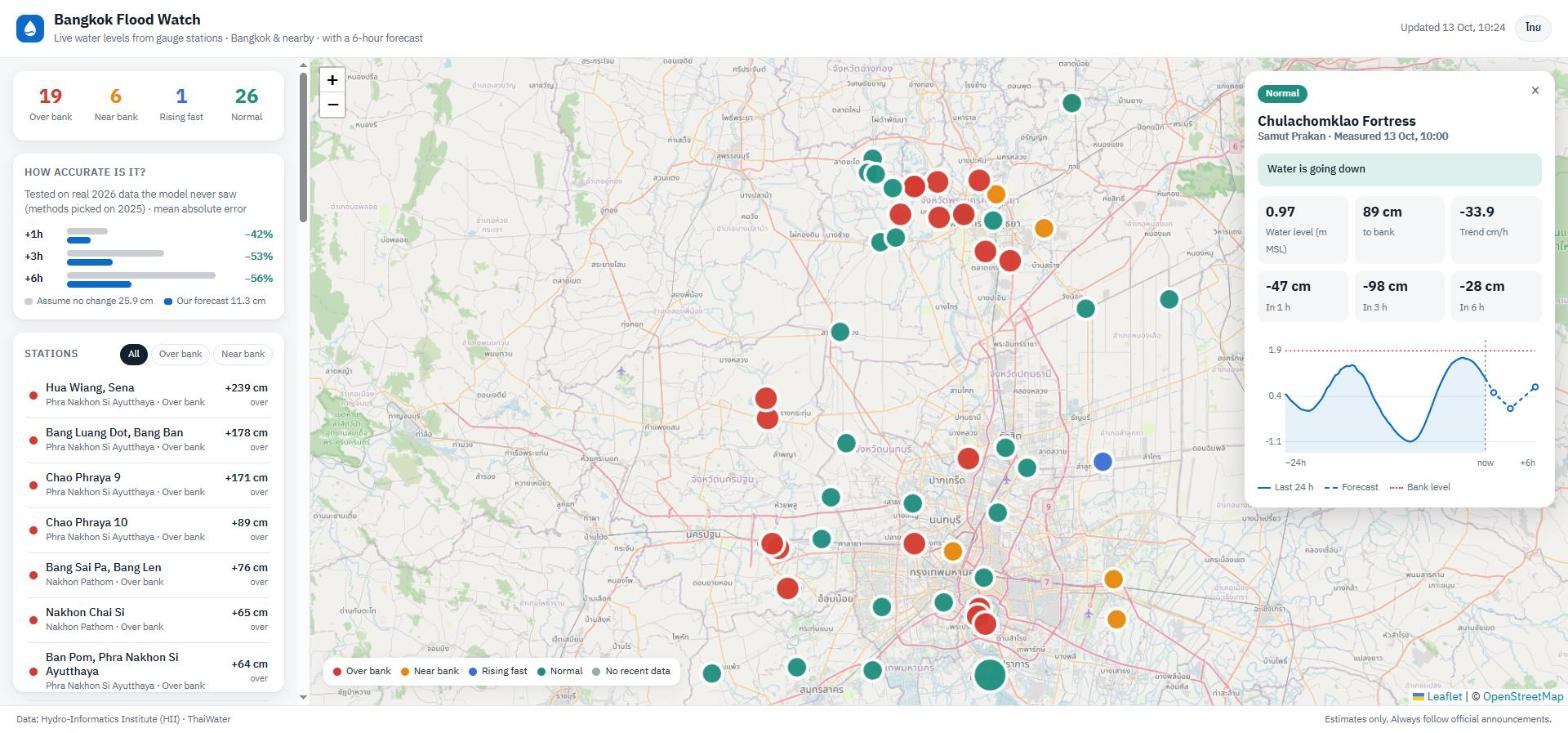
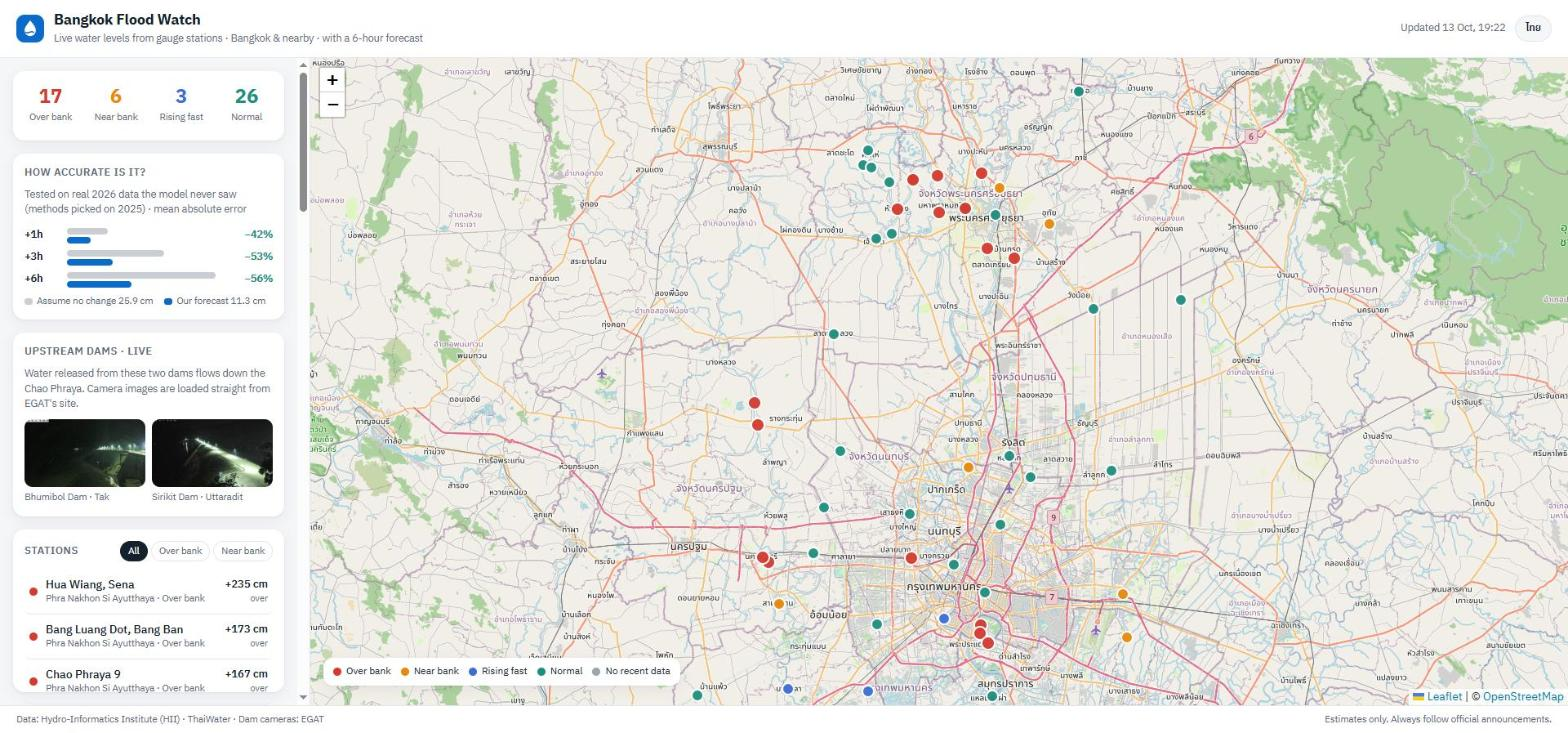
Show live camera pictures of the two upstream dams
Adds a small panel with EGAT's public camera stills of the Bhumibol and
Sirikit dams, loaded straight from EGAT's site and refreshed every five
minutes. A camera that is down is removed instead of showing a broken image.

A camera beside every gauge was the goal, but of the 106 cameras ThaiWater
lists only 8 dam cameras still answer, and Bangkok's traffic cameras can only
be viewed on the city's own site. The README says so.

Also: ?lang=en|th in the URL, and the empty detail box no longer shows
before a station is picked.

diff --git a/web/app.js b/web/app.js
@@ -18,9 +18,12 @@ const TEXT = {
     willOverflow: h => `คาดว่าน้ำจะถึงตลิ่งภายใน ${h} ชม. ถ้าแนวโน้มยังเป็นแบบนี้`,
     isOver: cm => `ตอนนี้น้ำสูงกว่าตลิ่ง ${cm} ซม.`,
     falling: "น้ำกำลังลด",
-    source: "ข้อมูล: สถาบันสารสนเทศทรัพยากรน้ำ (สสน.) · ThaiWater",
+    source: "ข้อมูล: สถาบันสารสนเทศทรัพยากรน้ำ (สสน.) · ThaiWater · ภาพกล้องเขื่อน: กฟผ.",
     warning: "เป็นการประมาณ ห้ามใช้แทนประกาศของทางการ",
     reading: "วัดเมื่อ",
+    camTitle: "เขื่อนต้นน้ำ · ภาพสด",
+    camNote: "น้ำที่ปล่อยจากสองเขื่อนนี้ไหลลงเจ้าพระยา · ภาพจากกล้องของ กฟผ. โหลดตรงจากเว็บ กฟผ.",
+    dams: { BB: "เขื่อนภูมิพล · ตาก", SK: "เขื่อนสิริกิติ์ · อุตรดิตถ์" },
   },
   en: {
     title: "Bangkok Flood Watch",
@@ -41,16 +44,25 @@ const TEXT = {
     willOverflow: h => `Likely to reach the bank within ${h} h if the trend holds`,
     isOver: cm => `Water is ${cm} cm above the bank right now`,
     falling: "Water is going down",
-    source: "Data: Hydro-Informatics Institute (HII) · ThaiWater",
+    source: "Data: Hydro-Informatics Institute (HII) · ThaiWater · Dam cameras: EGAT",
     warning: "Estimates only. Always follow official announcements.",
     reading: "Measured",
+    camTitle: "Upstream dams · live",
+    camNote: "Water released from these two dams flows down the Chao Phraya. Camera images are loaded straight from EGAT's site.",
+    dams: { BB: "Bhumibol Dam · Tak", SK: "Sirikit Dam · Uttaradit" },
   },
 };
+// Still images EGAT publishes for its dam cameras; refreshed on their side every few minutes.
+const CAM_URL = code => `https://egatwater.egat.co.th/assets/CCTV/images/${code}/1.jpg`;
+const CAM_SITE = "https://egatwater.egat.co.th/";
+const CAM_REFRESH_MS = 5 * 60e3;
 const COLORS = { over: "--over", near: "--near", rising: "--rising", normal: "--normal", stale: "--stale" };
 const ORDER = { over: 0, near: 1, rising: 2, normal: 3, stale: 4 };
 
 let lang = "th";
 try { lang = localStorage.getItem("floodwatch-lang") || "th"; } catch (e) {}
+const urlLang = new URLSearchParams(location.search).get("lang");
+if (urlLang === "th" || urlLang === "en") lang = urlLang;
 let data = null, accuracy = null, filter = "all", selected = null, map, markers = {};
 
 const $ = id => document.getElementById(id);
@@ -103,6 +115,17 @@ function renderAccuracy() {
       <span><i style="background:${css("--stale")};opacity:.55"></i>${t("accBase")} ${accuracy.rows.at(-1).baseline_cm} ${t("cm")}</span>
       <span><i style="background:${css("--accent")}"></i>${t("accOurs")} ${accuracy.rows.at(-1).ours_cm} ${t("cm")}</span>
     </div>`;
+}
+
+function renderCams() {
+  const stamp = Math.floor(Date.now() / CAM_REFRESH_MS);
+  $("cams").innerHTML = Object.entries(t("dams")).map(([code, label]) => `
+    <a class="cam" href="${CAM_SITE}" target="_blank" rel="noopener">
+      <img src="${CAM_URL(code)}?t=${stamp}" alt="${label}">
+      <span>${label}</span>
+    </a>`).join("");
+  // a camera that is down should disappear, not leave a broken picture
+  $("cams").querySelectorAll("img").forEach(img => (img.onerror = () => img.closest(".cam").remove()));
 }
 
 function renderFilters() {
@@ -219,7 +242,7 @@ function setFilter(f) {
 }
 
 function renderAll() {
-  applyText(); renderStats(); renderAccuracy(); renderFilters(); renderList(); renderMarkers(); renderLegend(); renderDetail();
+  applyText(); renderStats(); renderAccuracy(); renderCams(); renderFilters(); renderList(); renderMarkers(); renderLegend(); renderDetail();
 }
 
 $("lang").onclick = () => {
@@ -243,5 +266,6 @@ async function init() {
   if (params.get("station")) selected = +params.get("station");
   renderAll();
   map.fitBounds(L.latLngBounds(data.stations.map(s => [s.lat, s.lon])), { padding: [30, 30] });
+  setInterval(renderCams, CAM_REFRESH_MS);
 }
 init();

diff --git a/web/style.css b/web/style.css
@@ -73,6 +73,13 @@ h2 { font-size: 13px; font-weight: 600; text-transform: uppercase; letter-spacin
 .acc-key { display: flex; gap: 14px; font-size: 11.5px; color: var(--muted); }
 .acc-key i { display: inline-block; width: 10px; height: 8px; border-radius: 3px; margin-right: 5px; vertical-align: middle; }
 
+.cams { display: flex; flex-direction: column; gap: 8px; }
+.cam-grid { display: grid; grid-template-columns: 1fr 1fr; gap: 8px; }
+.cam { display: block; color: inherit; text-decoration: none; font-size: 11.5px; }
+.cam img { display: block; width: 100%; aspect-ratio: 16 / 9; object-fit: cover; border-radius: 10px; background: var(--bg); }
+.cam span { display: block; margin-top: 4px; color: var(--muted); }
+.cam:hover span { color: var(--accent); }
+
 .list-wrap { display: flex; flex-direction: column; gap: 10px; min-height: 0; }
 .list-head { display: flex; align-items: center; justify-content: space-between; }
 .filters { display: flex; gap: 4px; }
@@ -103,6 +110,7 @@ h2 { font-size: 13px; font-weight: 600; text-transform: uppercase; letter-spacin
   background: var(--card); border-radius: 16px; box-shadow: 0 8px 32px rgba(16,24,40,.18);
   padding: 16px; z-index: 500; display: flex; flex-direction: column; gap: 12px;
 }
+.detail[hidden] { display: none; }
 .detail .close {
   position: absolute; top: 10px; right: 10px; border: 0; background: transparent; color: var(--muted);
   font-size: 20px; line-height: 1; cursor: pointer; padding: 4px 8px; border-radius: 8px;

diff --git a/web/index.html b/web/index.html
@@ -7,7 +7,7 @@
 <link rel="preconnect" href="https://fonts.googleapis.com">
 <link href="https://fonts.googleapis.com/css2?family=IBM+Plex+Sans+Thai:wght@400;500;600;700&display=swap" rel="stylesheet">
 <link rel="stylesheet" href="https://cdnjs.cloudflare.com/ajax/libs/leaflet/1.9.4/leaflet.min.css">
-<link rel="stylesheet" href="style.css">
+<link rel="stylesheet" href="style.css?v=3">
 </head>
 <body>
 <header class="top">
@@ -38,6 +38,12 @@
       <div class="acc-rows" id="acc"></div>
     </section>
 
+    <section class="cams">
+      <h2 data-t="camTitle"></h2>
+      <p class="muted" data-t="camNote"></p>
+      <div class="cam-grid" id="cams"></div>
+    </section>
+
     <section class="list-wrap">
       <div class="list-head">
         <h2 data-t="listTitle"></h2>
@@ -60,6 +66,6 @@
 </footer>
 
 <script src="https://cdnjs.cloudflare.com/ajax/libs/leaflet/1.9.4/leaflet.min.js"></script>
-<script src="app.js"></script>
+<script src="app.js?v=3"></script>
 </body>
 </html>

diff --git a/README.md b/README.md
@@ -93,6 +93,11 @@ tests/
 - These are estimates. Don't use them to decide whether to drive through water.
   Always follow official announcements.
 - Some gauges have no bank height on record. For those the page shows the trend only.
+- The two camera pictures are the Bhumibol and Sirikit dams, upstream of the Chao Phraya. The page
+  loads them straight from [EGAT's water site](https://egatwater.egat.co.th/); nothing is copied or
+  stored here. I wanted a camera next to every gauge, but could not find one that is both working
+  and open to show: of the 106 cameras ThaiWater lists, only 8 dam cameras still answered, and
+  Bangkok's traffic cameras can only be viewed on the city's own site.
 
 ## Author
 
